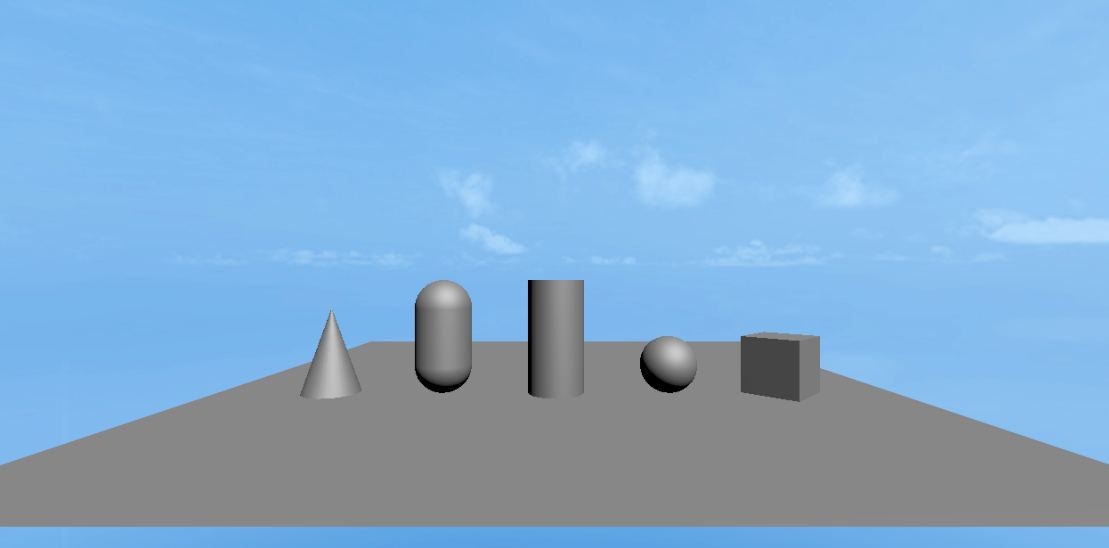
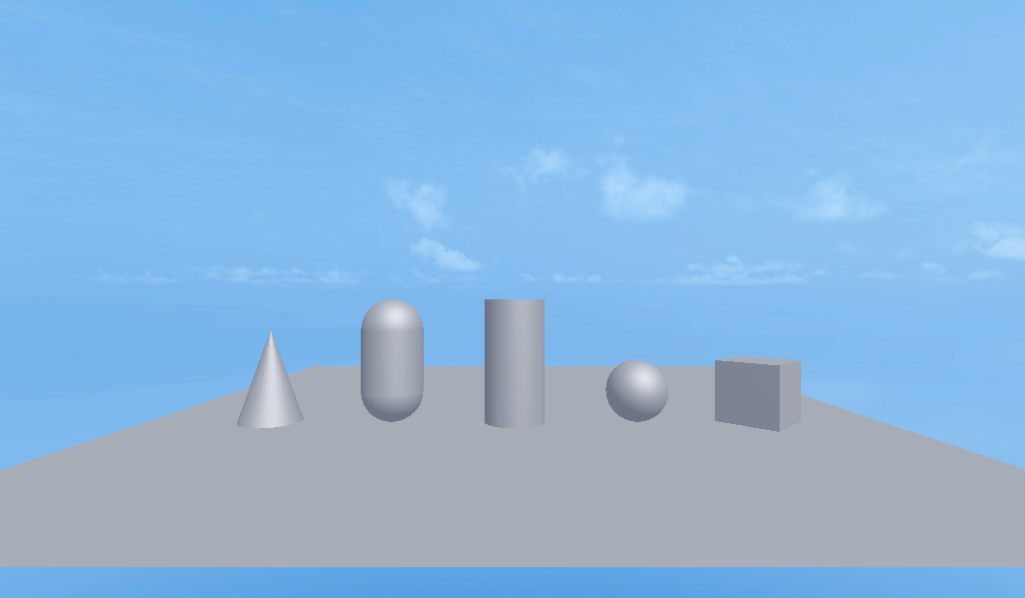
“3D基础显示对象”去掉MeshSprite3D用法

diff --git a/3D/displayObject/readme.md b/3D/displayObject/readme.md
@@ -124,93 +124,123 @@
 static createBox(long: number = 1, height: number = 1, width: number = 1): Mesh
 ```
 
-可以看到，通过 `createBox` 方法，可以创建Box网格，而且还可以创建不同的垂直和水平高度
+可以看到，通过 `createBox` 方法，可以创建Box网格，而且还可以创建不同的垂直和水平高度。
 
 因此，可以通过代码创建不同类型的Mesh网格：
 
 ```typescript
 //正方体
-let box = Laya.PrimitiveMesh.createBox(0.5, 0.5, 0.5);
+Laya.PrimitiveMesh.createBox(0.5, 0.5, 0.5);
 //球体
-let sphere = Laya.PrimitiveMesh.createSphere(0.25, 20, 20);
+Laya.PrimitiveMesh.createSphere(0.25, 20, 20);
 //圆柱体
-let cylinder = Laya.PrimitiveMesh.createCylinder(0.25, 1, 20);
+Laya.PrimitiveMesh.createCylinder(0.25, 1, 20);
 //胶囊体
-let capsule = Laya.PrimitiveMesh.createCapsule(0.25, 1, 10, 20);
+Laya.PrimitiveMesh.createCapsule(0.25, 1, 10, 20);
 //圆锥体
-let cone = Laya.PrimitiveMesh.createCone(0.25, 0.75);
+Laya.PrimitiveMesh.createCone(0.25, 0.75);
 //平面
-let plane = Laya.PrimitiveMesh.createPlane(6, 6, 10, 1));
+Laya.PrimitiveMesh.createPlane(6, 6, 10, 1));
 ```
 
-创建好的对象是Mesh网格，如果想要创建出场景中能看到的Sprite3D对象，我们还需要使用 `Laya.MeshSprite3D` 类
+创建好的对象是Mesh网格，如果想要创建出场景中能看到的Sprite3D对象，我们还需要为其添加组件。
 
 
 
-#### 3.1.2 `MeshSprite3D`
+#### 3.1.2 `MeshFilter & MeshRenderer`
 
-使用 `MeshSprite3D` 类，可以通过构造方法，传入 Mesh 对象，创建出场景能看到的 `Sprite3D` 对象，同时是带有 Mesh 形状的 `Sprite3D`
+添加 `MeshFilter` （网格过滤器）和 `MeshRenderer` （网格渲染器）组件，创建出场景能看到的 `Sprite3D` 对象，同时是带有 Mesh 形状的 `Sprite3D`。
 
-构造方法如下：
-
-```typescript
-/**
-* 创建一个 <code>MeshSprite3D</code> 实例。
-* @param mesh 网格,同时会加载网格所用默认材质。
-* @param name 名字。
-*/
-constructor(mesh: Mesh = null, name: string = null) {
-    super(name);
-    this._meshFilter = this.addComponent(MeshFilter);
-    this._render = this.addComponent(MeshRenderer);
-    (mesh) && (this._meshFilter.sharedMesh = mesh);
-}
-```
-
-`MeshSprite3D` 对象是会创建 `MeshFilter` （网格过滤器）和 `MeshRenderer` （网格渲染器）组件的。
-
-最后，我们通过 `MeshSprite3D` 来创建并添加到场景中，代码如下：
+也就是通过 `Sprite3D + MeshFilter + MeshRenderer` 的方式创建3D对象并添加到场景中，代码如下：
 
 ```typescript
-//正方体
-//创建Box网络
-let box: Laya.Mesh = Laya.PrimitiveMesh.createBox(0.5, 0.5, 0.5);
-//创建MeshSprite3D网络
-let boxMeshSprite3D: Laya.MeshSprite3D = new Laya.MeshSprite3D(box);
-//添加到场景中
-this.scene.addChild(boxMeshSprite3D);
-// 三维变换
-boxMeshSprite3D.transform.position = new Laya.Vector3(2.0, 0.25, 0.6);
-boxMeshSprite3D.transform.rotate(new Laya.Vector3(0, 45, 0), false, false);
+/* 立方体 */
+let box = new Laya.Sprite3D;
+let boxMesh = box.addComponent(Laya.MeshFilter);
+let boxRender = box.addComponent(Laya.MeshRenderer);
+// 创建网格
+boxMesh.sharedMesh = Laya.PrimitiveMesh.createBox(0.5, 0.5, 0.5);
+// 创建材质
+let boxMaterial: Laya.BlinnPhongMaterial = new Laya.BlinnPhongMaterial();
+boxRender.sharedMaterial = boxMaterial;
+// 添加到场景
+this.scene.addChild(box);
+// 设置位置
+box.transform.position = new Laya.Vector3(2.0, 0.25, 0.6);
+box.transform.rotate(new Laya.Vector3(0, 45, 0), false, false);
 
-//球体
-let sphere: Laya.Mesh = Laya.PrimitiveMesh.createSphere(0.25, 20, 20);
-let sphereMeshSprite3D: Laya.MeshSprite3D = new Laya.MeshSprite3D(sphere);
-this.scene.addChild(sphereMeshSprite3D);
-sphereMeshSprite3D.transform.position = new Laya.Vector3(1.0, 0.25, 0.6);
 
-//圆柱体
-let cylinder:Laya.Mesh = Laya.PrimitiveMesh.createCylinder(0.25, 1, 20);
-let cylinderMeshSprite3D: Laya.MeshSprite3D = new Laya.MeshSprite3D(cylinder);
-this.scene.addChild(cylinderMeshSprite3D);
-cylinderMeshSprite3D.transform.position = new Laya.Vector3(0, 0.5, 0.6);
+/* 球体 */
+let sphere = new Laya.Sprite3D;
+let sphereMesh = sphere.addComponent(Laya.MeshFilter);
+let sphereRender = sphere.addComponent(Laya.MeshRenderer);
+// 创建网格
+sphereMesh.sharedMesh = Laya.PrimitiveMesh.createSphere(0.25, 20, 20);
+// 创建材质
+let sphereMaterial: Laya.BlinnPhongMaterial = new Laya.BlinnPhongMaterial();
+sphereRender.sharedMaterial = sphereMaterial;
+// 添加到场景
+this.scene.addChild(sphere);
+// 设置位置
+sphere.transform.position = new Laya.Vector3(1.0, 0.25, 0.6);
 
-//胶囊体
-let capsule:Laya.Mesh = Laya.PrimitiveMesh.createCapsule(0.25, 1, 10, 20);
-let capsuleMeshSprite3D: Laya.MeshSprite3D = new Laya.MeshSprite3D(capsule);
-this.scene.addChild(capsuleMeshSprite3D);
-capsuleMeshSprite3D.transform.position = new Laya.Vector3(-1.0, 0.5, 0.6);
 
-//圆锥体
-let cone:Laya.Mesh = Laya.PrimitiveMesh.createCone(0.25, 0.75);
-let coneMeshSprite3D: Laya.MeshSprite3D = new Laya.MeshSprite3D(cone);
-this.scene.addChild(coneMeshSprite3D);
-coneMeshSprite3D.transform.position = new Laya.Vector3(-2.0, 0.375, 0.6);
+/* 圆柱体 */
+let cylinder = new Laya.Sprite3D;
+let cylinderMesh = cylinder.addComponent(Laya.MeshFilter);
+let cylinderRender = cylinder.addComponent(Laya.MeshRenderer);
+// 创建网格
+cylinderMesh.sharedMesh = Laya.PrimitiveMesh.createCylinder(0.25, 1, 20);
+// 创建材质
+let cylinderMaterial: Laya.BlinnPhongMaterial = new Laya.BlinnPhongMaterial();
+cylinderRender.sharedMaterial = cylinderMaterial;
+// 添加到场景
+this.scene.addChild(cylinder);
+// 设置位置
+cylinder.transform.position = new Laya.Vector3(0, 0.5, 0.6);
 
-//平面
-let plane:Laya.Mesh = Laya.PrimitiveMesh.createPlane(6, 6, 10, 10);
-let planeMeshSprite3D: Laya.MeshSprite3D = new Laya.MeshSprite3D(plane);
-this.scene.addChild(planeMeshSprite3D);
+
+/* 胶囊体 */
+let capsule = new Laya.Sprite3D;
+let capsuleMesh = capsule.addComponent(Laya.MeshFilter);
+let capsuleRender = capsule.addComponent(Laya.MeshRenderer);
+// 创建网格
+capsuleMesh.sharedMesh = Laya.PrimitiveMesh.createCapsule(0.25, 1, 10, 20);
+// 创建材质
+let capsuleMaterial: Laya.BlinnPhongMaterial = new Laya.BlinnPhongMaterial();
+capsuleRender.sharedMaterial = capsuleMaterial;
+// 添加到场景
+this.scene.addChild(capsule);
+// 设置位置
+capsule.transform.position = new Laya.Vector3(-1.0, 0.5, 0.6);
+
+
+/* 圆锥体 */
+let cone = new Laya.Sprite3D;
+let coneMesh = cone.addComponent(Laya.MeshFilter);
+let coneRender = cone.addComponent(Laya.MeshRenderer);
+// 创建网格
+coneMesh.sharedMesh = Laya.PrimitiveMesh.createCone(0.25, 0.75);
+// 创建材质
+let coneMaterial: Laya.BlinnPhongMaterial = new Laya.BlinnPhongMaterial();
+coneRender.sharedMaterial = coneMaterial;
+// 添加到场景
+this.scene.addChild(cone);
+// 设置位置
+cone.transform.position = new Laya.Vector3(-2.0, 0.375, 0.6);
+
+
+/* 平面 */
+let plane = new Laya.Sprite3D;
+let planeMesh = plane.addComponent(Laya.MeshFilter);
+let planeRender = plane.addComponent(Laya.MeshRenderer);
+// 创建网格
+planeMesh.sharedMesh = Laya.PrimitiveMesh.createPlane(6, 6, 10, 10);
+// 创建材质
+let planeMaterial: Laya.BlinnPhongMaterial = new Laya.BlinnPhongMaterial();
+planeRender.sharedMaterial = planeMaterial;
+// 添加到场景
+this.scene.addChild(plane);
 ```
 
 运行时效果如下：
@@ -225,17 +255,15 @@ this.scene.addChild(planeMeshSprite3D);
 
 使用 `Transform3D` 类，可以对3D基础对象做基础变换，代码示例如下：
 
-> 代码中的cube就是3.1.2节中的boxMeshSprite3D。
-
 ```typescript
 //改变立方体的世界坐标
-cube.transform.position = new Laya.Vector3(0, 0, 0);
+box.transform.position = new Laya.Vector3(0, 0, 0);
 //立方体的平移
-cube.transform.translate( new Laya.Vector3(1, 1, 1));
+box.transform.translate(new Laya.Vector3(1, 1, 1));
 //立方体的旋转
-cube.transform.rotate(new Laya.Vector3(0, 45, 0), false, false);
+box.transform.rotate(new Laya.Vector3(0, 45, 0), false, false);
 //立方体的缩放
-cube.transform.setWorldLossyScale( new Laya.Vector3(2, 2, 2));
+box.transform.setWorldLossyScale(new Laya.Vector3(2, 2, 2));
 ```
 
 
@@ -246,11 +274,9 @@ cube.transform.setWorldLossyScale( new Laya.Vector3(2, 2, 2));
 
 ```typescript
 //立方体产生阴影
-cube.meshRenderer.castShadow = true;
-//创建平面
-let plane = this.scene.addChild(new Laya.MeshSprite3D(Laya.PrimitiveMesh.createPlane(6, 6, 10, 10)));
+boxRender.castShadow = true;
 //平面接收阴影
-plane.meshRenderer.receiveShadow = true;
+planeRender.receiveShadow = true;
 ```
 
 > 需要保证Direction Light的Shadow Mode不为None。
@@ -263,13 +289,13 @@ plane.meshRenderer.receiveShadow = true;
 
 ```typescript
 //添加Rigidbody3D组件
-let rigidbody3D : Laya.Rigidbody3D = cube.addComponent(Laya.Rigidbody3D);
+let boxRigidbody3D: Laya.Rigidbody3D = box.addComponent(Laya.Rigidbody3D);
 //设置重力
-rigidbody3D.overrideGravity = true;
+boxRigidbody3D.gravity = new Laya.Vector3(0, -9.8, 0);
 //创建盒子形状碰撞器
 let boxShape: Laya.BoxColliderShape = new Laya.BoxColliderShape(1, 1, 1);
 //设置盒子的碰撞形状
-rigidbody3D.colliderShape = boxShape;
+boxRigidbody3D.colliderShape = boxShape;
 ```
 
 > 运行物理组件需要在项目设置面板中勾选相应的引擎模块。
@@ -281,17 +307,17 @@ rigidbody3D.colliderShape = boxShape;
 每个3D基础对象，都可以通过代码添加材质和纹理，代码示例如下：
 
 ```typescript
+// 创建材质
+let boxMaterial: Laya.BlinnPhongMaterial = new Laya.BlinnPhongMaterial();
 //预加载纹理资源
-let resource: string = "layabox.png";
-Laya.loader.load(resource).then( ()=>{
-    //创建BlinnPhong材质
-    let materialBill: Laya.BlinnPhongMaterial = new Laya.BlinnPhongMaterial;
-    cube.meshRenderer.material = materialBill;
+let resource: string = "resources/layabox.png";
+Laya.loader.load(resource).then(() => {
     //为材质加载纹理
-    let tex = Laya.Loader.getTexture2D("layabox.png");
+    let tex = Laya.Loader.getTexture2D(resource);
     //设置贴图
-    materialBill.albedoTexture = tex;
-} );
+    boxMaterial.albedoTexture = tex;
+});
+boxRender.sharedMaterial = boxMaterial;
 ```
 
 运行时效果如下：
